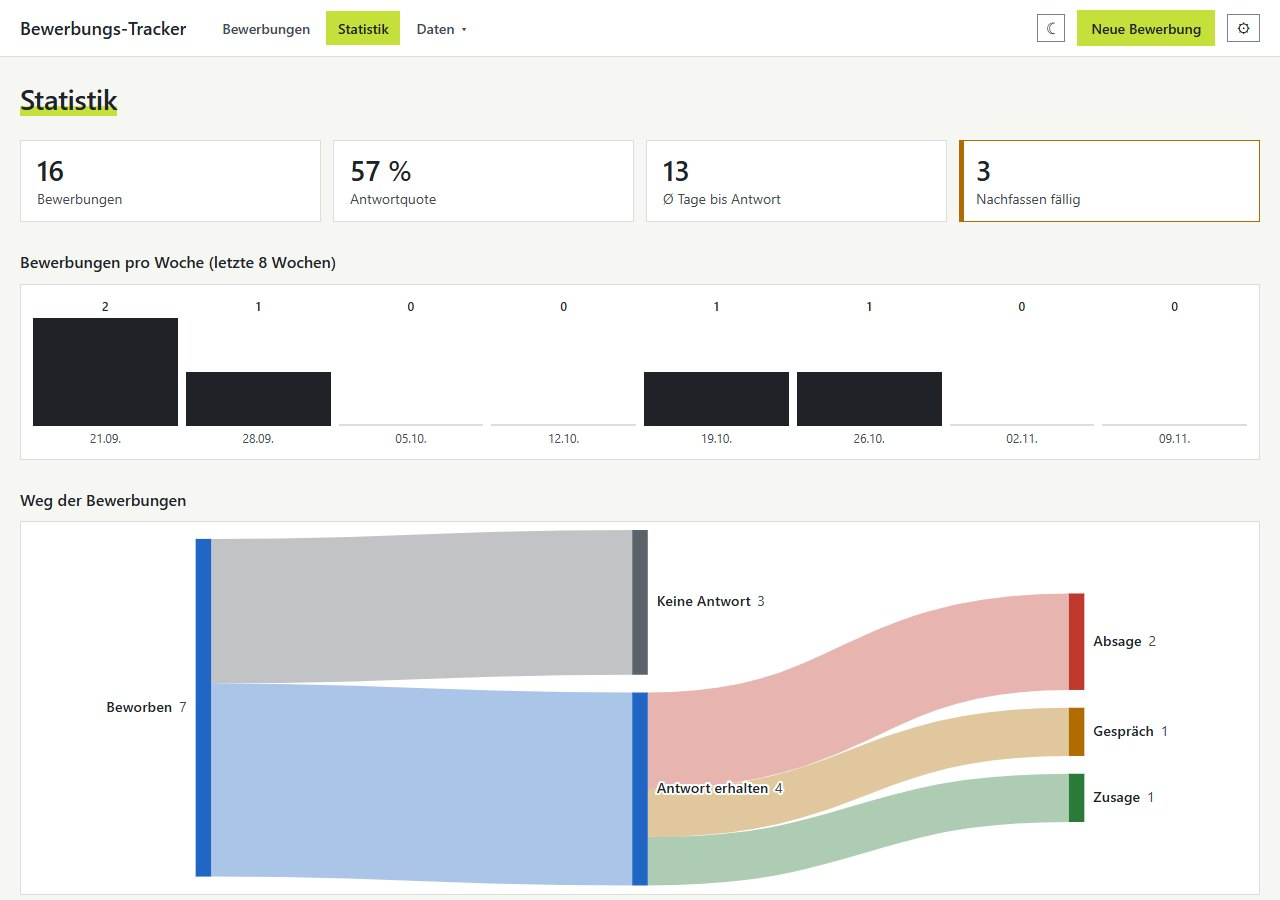
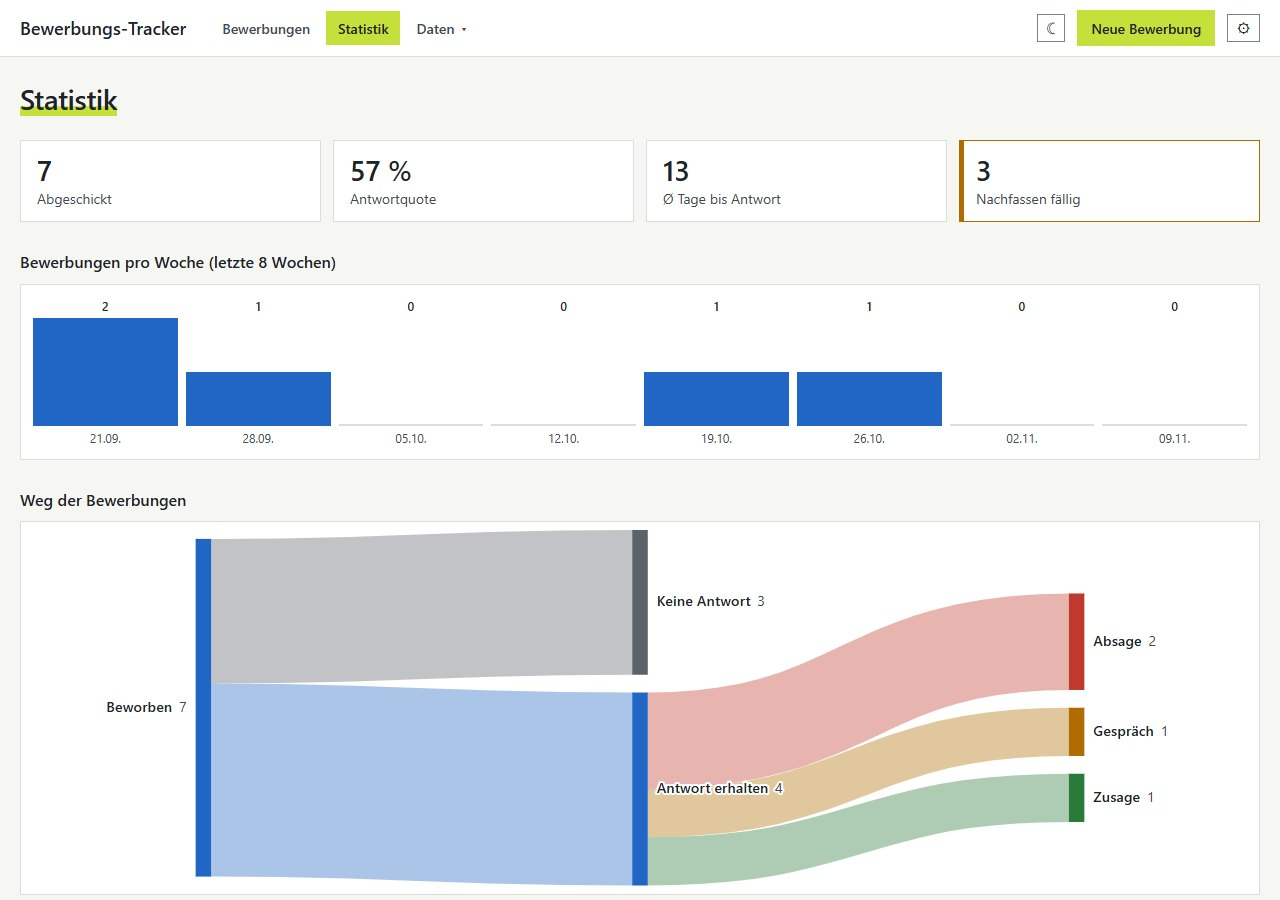
Add the Vermittler application type and fix the statistics
The new built-in type Vermittler covers applications through agencies and recruiters such as Ferchau. Entries already typed as Vermittler or Recruiter are converted by a data migration. The statistics now count only applications that were really sent, use the applied colour for the weekly bars and take the days until an answer from the logged status change when no response date was entered.

Changed region(s): [[0.0, 0.3422, 0.2812, 0.4978], [0.5, 0.4044, 0.75, 0.4978], [0.0312, 0.1556, 0.0938, 0.2489]]

diff --git a/frontend/src/components/StatsPage.vue b/frontend/src/components/StatsPage.vue
@@ -19,10 +19,21 @@ const offers = computed(() => sent.value.filter((i) => i.status === 'offer'))
 
 const rate = computed(() => (sent.value.length ? Math.round((answered.value.length / sent.value.length) * 100) : null))
 
+// The day of the answer: the response date if there is one, otherwise the first logged change to an interview,
+// rejection or offer, so the average also works when nobody typed in the response date.
+const answerDate = (i) => {
+  if (i.response_date) return i.response_date
+  const dates = (i.events ?? [])
+    .filter((e) => e.kind === 'status' && ['interview', 'rejected', 'offer'].includes(e.status))
+    .map((e) => e.date)
+    .sort()
+  return dates[0] ?? null
+}
+
 const avgDays = computed(() => {
-  const spans = props.items
-    .filter((i) => i.date && i.response_date)
-    .map((i) => daysBetween(i.date, i.response_date))
+  const spans = sent.value
+    .filter((i) => i.date && answerDate(i))
+    .map((i) => daysBetween(i.date, answerDate(i)))
     .filter((n) => n >= 0)
   return spans.length ? Math.round(spans.reduce((a, b) => a + b, 0) / spans.length) : null
 })
@@ -122,7 +133,7 @@ const short = (isoDate) => isoDate.slice(8, 10) + '.' + isoDate.slice(5, 7) + '.
 <template>
   <section class="stats">
     <div class="tiles">
-      <div class="tile"><strong>{{ items.length }}</strong><span>{{ t('stats.total') }}</span></div>
+      <div class="tile"><strong>{{ sent.length }}</strong><span>{{ t('stats.total') }}</span></div>
       <div class="tile"><strong>{{ rate === null ? t('stats.none') : `${rate} %` }}</strong><span>{{ t('stats.rate') }}</span></div>
       <div class="tile"><strong>{{ avgDays === null ? t('stats.none') : avgDays }}</strong><span>{{ t('stats.avgDays') }}</span></div>
       <div class="tile" :class="{ warn: due.length }"><strong>{{ due.length }}</strong><span>{{ t('stats.due') }}</span></div>

diff --git a/frontend/src/kind.js b/frontend/src/kind.js
@@ -1,7 +1,7 @@
 import { t } from './i18n'
 import { BUILTIN_KINDS } from './status'
 
-// The type of an application is free text. "posting" (Stelle) and "initiative" (Initiativ) are built in and
+// The type of an application is free text. "posting" (Stelle), "initiative" (Initiativ) and "agency" (Vermittler) are built in and
 // translated, every other type is shown as it was typed.
 export const isBuiltin = (kind) => BUILTIN_KINDS.includes(kind)
 export const kindName = (kind) => (isBuiltin(kind) ? t(`apptype.${kind}`) : kind || '')
@@ -10,7 +10,7 @@ export const kindLabel = (item) => kindName(item.kind)
 // For example "Geplant - Initiativ" or "Beworben - Stelle".
 export const comboLabel = (status, kind) => `${t(`status.${status}`)} - ${kindName(kind)}`
 
-// Six colors: rose for "Stelle", teal for "Initiativ", the other four are picked from the name of any other type,
+// Six colors: rose for "Stelle", teal for "Initiativ", olive for "Vermittler", the other three are picked from the name of any other type,
 // so a type always has the same color.
 const COLORS = 6
 const hash = (text) => [...text].reduce((h, c) => (h * 31 + c.charCodeAt(0)) >>> 0, 7)
@@ -18,7 +18,8 @@ const hash = (text) => [...text].reduce((h, c) => (h * 31 + c.charCodeAt(0)) >>>
 export function kindIndex(kind) {
   if (kind === 'posting') return 0
   if (kind === 'initiative') return 1
-  return 2 + (hash((kind || '').toLowerCase()) % (COLORS - 2))
+  if (kind === 'agency') return 2
+  return 3 + (hash((kind || '').toLowerCase()) % (COLORS - 3))
 }
 
 export const kindClass = (kind) => (kind ? `kt-${kindIndex(kind)}` : '')

diff --git a/frontend/src/style.css b/frontend/src/style.css
@@ -49,7 +49,7 @@
   /* application types: rose for "Stelle", teal for "Initiativ", the other four for types the user adds */
   --kt0: #A63A78; --kt0-soft: #FAE6F0; --kt0-ink: #7A2A55;
   --kt1: #0E7C87; --kt1-soft: #DDF3F5; --kt1-ink: #0B5F68;
-  --kt2: #6B8512; --kt2-soft: #EDF3D3; --kt2-ink: #4B5C10;
+  --kt2: #6B8512; --kt2-soft: #EDF3D3; --kt2-ink: #4B5C10; /* Vermittler */
   --kt3: #A0612F; --kt3-soft: #F6E7DB; --kt3-ink: #6E3F18;
   --kt4: #4558B8; --kt4-soft: #E5E8F7; --kt4-ink: #2F3D8A;
   --kt5: #5F7A8A; --kt5-soft: #E4ECF0; --kt5-ink: #34474F;
@@ -356,7 +356,7 @@ tbody tr.group-row:hover td { background: var(--tint); }
 .tile.warn { border-color: var(--interview); box-shadow: inset 4px 0 0 var(--interview); }
 .week-chart { display: grid; grid-template-columns: repeat(8, 1fr); gap: .5rem; align-items: end; height: 11rem; background: var(--surface); border: 1px solid var(--line); padding: .75rem; }
 .week { display: grid; grid-template-rows: auto 1fr auto; justify-items: center; height: 100%; gap: .2rem; min-width: 0; }
-.week-bar { align-self: end; width: 100%; background: var(--green); min-height: 2px; }
+.week-bar { align-self: end; width: 100%; background: var(--applied); min-height: 2px; }
 .week-bar.zero { background: var(--line); }
 .week-n { font-size: var(--fs-12); font-weight: 600; }
 .week-label { font-size: var(--fs-12); color: var(--mid); }

diff --git a/frontend/src/i18n.js b/frontend/src/i18n.js
@@ -140,6 +140,7 @@ const messages = {
     'field.kind': 'Art',
     'apptype.posting': 'Stelle',
     'apptype.initiative': 'Initiativ',
+    'apptype.agency': 'Vermittler',
     'bulk.kind': 'Art setzen …',
     'bulk.kindClear': 'Art entfernen',
     'filter.noKind': 'Ohne Art',
@@ -180,7 +181,7 @@ const messages = {
     'history.remove': 'Notiz entfernen',
     'history.needText': 'Notiz eingeben',
     'stats.title': 'Statistik',
-    'stats.total': 'Bewerbungen',
+    'stats.total': 'Abgeschickt',
     'stats.rate': 'Antwortquote',
     'stats.avgDays': 'Ø Tage bis Antwort',
     'stats.due': 'Nachfassen fällig',
@@ -436,6 +437,7 @@ const messages = {
     'field.kind': 'Type',
     'apptype.posting': 'Job posting',
     'apptype.initiative': 'Unsolicited',
+    'apptype.agency': 'Agency',
     'bulk.kind': 'Set type …',
     'bulk.kindClear': 'Clear type',
     'filter.noKind': 'No type',
@@ -476,7 +478,7 @@ const messages = {
     'history.remove': 'Remove note',
     'history.needText': 'Enter a note',
     'stats.title': 'Statistics',
-    'stats.total': 'Applications',
+    'stats.total': 'Sent',
     'stats.rate': 'Response rate',
     'stats.avgDays': 'Avg. days to answer',
     'stats.due': 'Follow-up due',

diff --git a/frontend/src/status.js b/frontend/src/status.js
@@ -1,8 +1,8 @@
 export const STATUS_KEYS = ['planned', 'unsure', 'applied', 'interview', 'rejected', 'offer']
 
 // The two built-in values of the free-text type of an application (independent of the status): a job posting
-// ("Stelle") and an unsolicited application ("Initiativ").
-export const BUILTIN_KINDS = ['posting', 'initiative']
+// ("Stelle"), an unsolicited application ("Initiativ") and an application through an agency or recruiter ("Vermittler").
+export const BUILTIN_KINDS = ['posting', 'initiative', 'agency']
 
 // A follow up only makes sense while an answer is still awaited.
 export const OPEN_STATUSES = ['applied']

diff --git a/backend/application/migrations/0015_agency_kind.py b/backend/application/migrations/0015_agency_kind.py
@@ -1,0 +1,17 @@
+from django.db import migrations
+
+# Entries that already carry one of the names of the new built-in type "Vermittler" get its key.
+NAMES = {"vermittler", "vermittlung", "personalvermittler", "personalvermittlung", "personaldienstleister", "recruiter", "recruiting", "agency"}
+
+
+def to_agency(apps, schema_editor):
+    Application = apps.get_model("application", "Application")
+    for application in Application.objects.exclude(kind="").exclude(kind="agency"):
+        if " ".join(application.kind.split()).lower() in NAMES:
+            application.kind = "agency"
+            application.save(update_fields=["kind"])
+
+
+class Migration(migrations.Migration):
+    dependencies = [("application", "0014_attachment_kind_complete")]
+    operations = [migrations.RunPython(to_agency, migrations.RunPython.noop)]

diff --git a/backend/application/models.py b/backend/application/models.py
@@ -47,7 +47,7 @@ class Application(models.Model):
     follow_up = models.DateField(null=True, blank=True)
     notes = models.TextField(blank=True)
     is_favorite = models.BooleanField(default=False)
-    # Empty until chosen. "posting" (Stelle) and "initiative" (Initiativ) are the built-in values with a translated
+    # Empty until chosen. "posting" (Stelle), "initiative" (Initiativ) and "agency" (Vermittler) are the built-in values with a translated
     # name; any other text that is stored (for example from an import) is shown as it is.
     kind = models.CharField(max_length=40, blank=True, default="")
     tags = models.CharField(max_length=300, blank=True)  # comma separated, e.g. "Remote, Wunschfirma"

diff --git a/backend/application/serializers.py b/backend/application/serializers.py
@@ -63,6 +63,8 @@ KIND_ALIASES = {
     "posting": "posting", "stelle": "posting", "job posting": "posting", "stellenanzeige": "posting",
     "initiative": "initiative", "initiativ": "initiative", "initiativbewerbung": "initiative",
     "unsolicited": "initiative", "speculative": "initiative",
+    "agency": "agency", "vermittler": "agency", "vermittlung": "agency", "personalvermittler": "agency",
+    "personalvermittlung": "agency", "personaldienstleister": "agency", "recruiter": "agency", "recruiting": "agency",
 }
 
 

diff --git a/README.md b/README.md
@@ -43,7 +43,7 @@ This project is under active development. Features and the data model may still 
 
 - Track applications with company, position, contact person, dates, status, notes and more
 - Status workflow: planned, unsure, applied, interview, rejected, offer
-- Type per application, chosen from a menu in addition to the status and empty until set: "Stelle" (answer to a job posting, rose) or "Initiativ" (unsolicited, teal). Together with the status this gives combinations such as Planned - Initiativ or Applied - Stelle; there are filter chips for each type and for applications without one, a column in the table, a badge on the cards and the board, and a bulk change
+- Type per application, chosen from a menu in addition to the status and empty until set: "Stelle" (answer to a job posting, rose), "Initiativ" (unsolicited, teal) or "Vermittler" (through an agency or recruiter such as Ferchau, olive). Together with the status this gives combinations such as Planned - Initiativ or Applied - Stelle; there are filter chips for each type and for applications without one, a column in the table, a badge on the cards and the board, and a bulk change
 - Favorites with a star marker and a favorites filter
 - Compact toolbar: live search (company, position, contact person, email, phone, city, notes; the slash key jumps to it), status segments with counters and a Filter menu for the type, tags, favorites, due follow-ups and grouping; the active filters stay visible as chips that can be removed one by one
 - Status shown by color, icon and text (never by color alone): the same badges in the table, on the cards, on the board and as pins on the map
@@ -237,12 +237,32 @@ Restart the dev server after changes to `vite.config.js`.
 
 ### Tests
 
+An overview of all tests and how to run them is in [TESTING.md](TESTING.md).
+
 ```bash
 cd backend
 python manage.py test
 ```
 
 The tests cover the API (search, ordering, file cleanup), attachment uploads and renaming, and the import.
+
+The frontend logic (types and colours, field settings, CSV and calendar export, links and logos, distances, dates, translations) is tested with Vitest:
+
+```bash
+cd frontend
+npm test
+```
+
+The translation test also fails when a text exists in only one language.
+
+The browser tests drive the real app in Microsoft Edge (list, search, quick add, history, delete and undo, bulk actions, board, documents with viewer, rename, paste, drop and copy, statistics with the Sankey diagram, CSV, calendar, backup, import, field settings, dark mode, language, phone width):
+
+```bash
+cd frontend
+npm run test:e2e
+```
+
+They start their own backend (port 8021) and frontend (port 5190) with a throw-away database and upload folder in the temporary folder, so your real data is never touched. Set `E2E_BROWSER=chromium` after `npx playwright install chromium` to use the bundled browser instead of Edge.
 
 ## Usage
 
@@ -256,7 +276,7 @@ The tests cover the API (search, ordering, file cleanup), attachment uploads and
 - **Import:** open Import, download the template if needed, choose a file and review the dry-run preview before importing. Supported formats are `.csv`, `.tsv`, `.txt`, `.xlsx`, `.xlsm`, `.ods` and `.json`, up to 5 MB. German and English column names are recognized; unknown columns are shown as ignored. Choose whether to add new companies and update existing applications or import new companies only. Existing companies are matched case-insensitively after whitespace normalization. In update mode, non-empty imported values update the oldest matching application; empty cells do not erase saved data. Repeated companies in the same file are counted as duplicates.
 - **Export:** Export as CSV in the Data menu downloads all applications as a CSV file (semicolon separated, UTF-8 with BOM, opens directly in Excel and LibreOffice). The file uses the same columns as the import template.
 - **Reminders, sorting and grouping:** the banner above the list names the follow-ups that are due; Show narrows the list to them. Click a column header to sort (again for descending, a third time to reset). Group by company puts applications of the same company together under a header.
-- **Type:** the Art menu in the form starts empty; choose Stelle or Initiativ when it applies. The type is a badge in the list, on the cards and on the board (nothing is shown while it is empty). Next to the status chips there is a chip for each type and one for Ohne Art, so Planned plus Initiativ can be combined, or all applications that still need a type can be listed. In the bulk bar, pick a type or Art entfernen for the selected applications. Types that are stored in the data in other words (for example from an import) stay selectable and get their own color.
+- **Type:** the Art menu in the form starts empty; choose Stelle, Initiativ or Vermittler when it applies (entries typed as Vermittler, Recruiter or similar become the built-in type). The type is a badge in the list, on the cards and on the board (nothing is shown while it is empty). Next to the status chips there is a chip for each type and one for Ohne Art, so Planned plus Initiativ can be combined, or all applications that still need a type can be listed. In the bulk bar, pick a type or Art entfernen for the selected applications. Types that are stored in the data in other words (for example from an import) stay selectable and get their own color.
 - **Several at once:** tick the boxes in the first column; a bar offers a status change, a type, Delete and Clear selection. Every delete can be undone from the message that appears at the bottom.
 - **History and tags:** the detail view shows the history with the status changes and lets you add notes. Tags are entered comma separated in the form and can be used as a filter.
 - **Board:** drag a card to another column to change the status, or use the status menu on the card.
